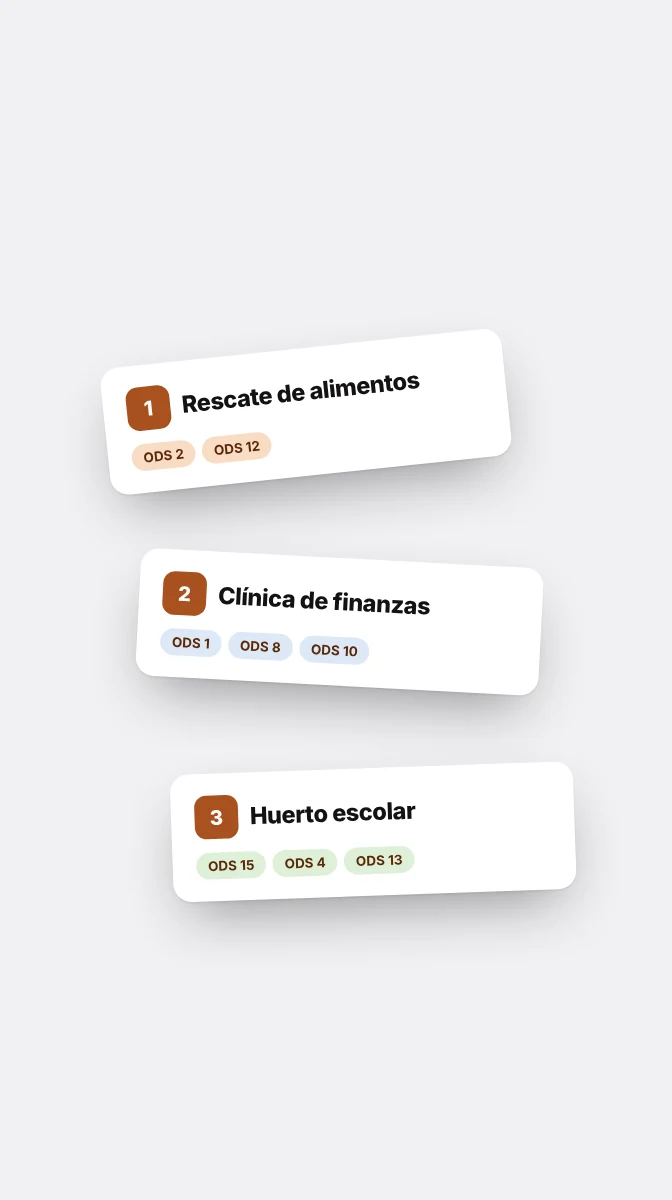
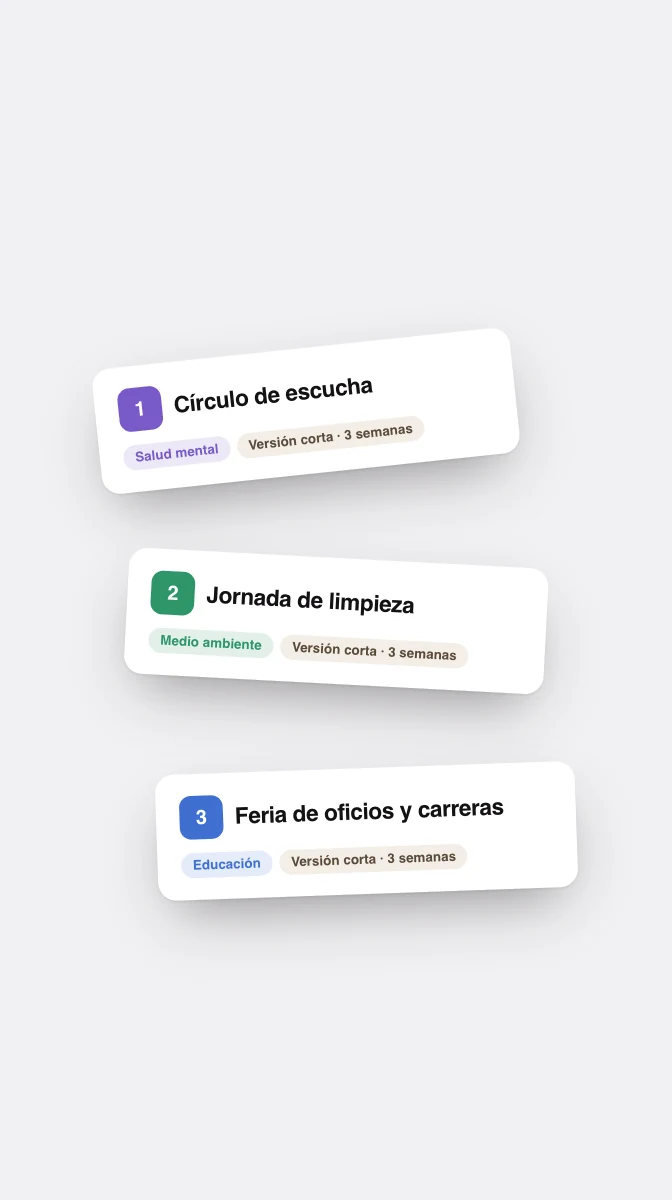
¿Qué proyecto social hago?: portada con ideas variadas
Las tarjetas de la portada pasan de Rescate de alimentos, Clínica de finanzas y Huerto escolar a Círculo de escucha (Salud mental), Jornada de limpieza (Medio ambiente) y Feria de oficios y carreras (Educación), cada una con su versión corta. El apoyo ya no dice «para negocios» y los datos dicen 3 min y versión corta.

diff --git a/_tienda/src/marca-producto.js b/_tienda/src/marca-producto.js
@@ -24,7 +24,7 @@ export const MARCAS = {
   vende: ['#C2256F', 'Vende', 'Clientas, pedidos y cobros, [en orden.]', ['Ganancia **real**', '**WhatsApp** listo', '**Gratis** para empezar']],
   'ruta-de-impacto': ['#4338CA', 'Ruta de Impacto', 'Tu proyecto social, [de la idea a la comunidad.]', ['**6** niveles + final', '**Tutor** con pistas', 'Pago único · **1 año**']],
   'test-vocacional': ['#5B1F7A', 'Test vocacional', 'Descubre [qué carreras van contigo.]', ['**48** preguntas', 'Perfil básico **gratis**', '**20** carreras afines']],
-  'que-proyecto-social': ['#A8501F', '¿Qué proyecto social hago?', 'Tu proyecto social, [a tu medida.]', ['**10** preguntas · 5 min', 'De **5 a 8** proyectos', 'Indicadores y **ODS**']],
+  'que-proyecto-social': ['#A8501F', '¿Qué proyecto social hago?', 'Tu proyecto social, [a tu medida.]', ['**10** preguntas · 3 min', 'De **5 a 8** proyectos', 'Versión **corta**']],
   'evaluacion-liderazgo': ['#5B2A63', 'Evaluación de liderazgo', 'Lo que crees de ti, [contra lo que has hecho.]', ['**80** preguntas · 25 min', '**12** dimensiones', '**2** aplicaciones']],
   portales: ['#0F5A8A', 'Portal', 'Tus propiedades, [en tu propio portal.]', ['Tu **portal** propio', 'Fotos y **ficha** por inmueble', 'Interesados por **WhatsApp**']],
   clara: ['#1F5FD6', 'Clara', 'Tu dinero, claro. Anota todo [en segundos.]', ['**Efectivo**, débito y crédito', '**Sin** conectar tu banco', 'Desde **15** años']],

diff --git a/_tienda/simulador/portadas_v4.py b/_tienda/simulador/portadas_v4.py
@@ -36,7 +36,7 @@ V4 = {
   'idea-en-orden': ('#1F7A44', 'Kit Idea en Orden', 'Ordena tu idea y [planea tus próximos 7 días.]', 'Emprendimiento nivel 1: workbook y herramientas para arrancar.', ['Workbook **PDF** · 32 págs.', '**Word** y Excel', '**6** herramientas']),
   'idea-negocio': ('#5B2A9E', 'Kit Idea → Negocio', 'Valida tu idea con [clientes reales.]', 'Emprendimiento nivel 2: entrevistas, preventa, costos y punto de equilibrio.', ['Workbook **PDF** · 32 págs.', '**2** Excel', 'Incluye **Nivel 1**']),
   'test-vocacional': ('#5B1F7A', 'Test vocacional', 'Descubre [qué carreras van contigo.]', 'Tu perfil de intereses y las carreras afines, explicado claro.', ['**48** preguntas', 'Perfil básico **gratis**', '**20** carreras afines']),
-  'que-proyecto-social': ('#A8501F', '¿Qué proyecto social hago?', 'Tu proyecto social, [a tu medida.]', 'Para negocios, OSC y profesionistas, con indicadores y ODS.', ['**10** preguntas · 5 min', 'De **5 a 8** proyectos', 'Indicadores y **ODS**']),
+  'que-proyecto-social': ('#A8501F', '¿Qué proyecto social hago?', 'Tu proyecto social, [a tu medida.]', 'Para personas, colectivos, escuelas y negocios: ideas variadas que arrancan en semanas.', ['**10** preguntas · 3 min', 'De **5 a 8** proyectos', 'Versión **corta**']),
   'evaluacion-liderazgo': ('#5B2A63', 'Evaluación de liderazgo', 'Lo que crees de ti, [contra lo que has hecho.]', 'Desde 12 años: 12 dimensiones y 3 acciones para 30 días.', ['**80** preguntas · 25 min', '**12** dimensiones', '**2** aplicaciones']),
   'portales': ('#0F5A8A', 'Portal', 'Tus propiedades, [en tu propio portal.]', 'Publica tus inmuebles con fotos y recibe a los interesados por WhatsApp.', ['Tu **portal** propio', 'Fotos y **ficha** por inmueble', 'Interesados por **WhatsApp**']),
   'pagina-web': ('#9A5220', 'Tu página web', 'Tu negocio en internet, [listo y cuidado.]', 'La diseñamos, la publicamos y la mantenemos por ti. Tú pagas $499 al mes y tu dominio.', ['Diseño **sin costo**', 'Hospedaje y **SSL**', '**3** cambios al mes']),
@@ -187,8 +187,9 @@ def obj_vocacional():
     return hoja_papel(60, 180, 540, 840, -3, eti('#5B1F7A', 'Tu resultado') + '<div style="font:850 40px Inter,sans-serif;letter-spacing:-.03em;margin:10px 0 20px">Tu código vocacional</div><div style="display:flex;gap:16px">' + letras + '</div>' + barras + '<div style="margin-top:24px;background:#F6F0FA;border-radius:14px;padding:16px 18px"><b style="font:750 19px Inter,sans-serif">Carreras afines</b><div style="font:500 17px Inter,sans-serif;color:#5F5A63;margin-top:4px">Psicología, Pedagogía, Comunicación…</div></div>')
 
 def obj_proyecto():
-    ideas = [('Rescate de alimentos', [2, 12], '#F9DCC4'), ('Clínica de finanzas', [1, 8, 10], '#DCE8F7'), ('Huerto escolar', [15, 4, 13], '#DDF0D8')]
-    tarj = ''.join(f'<div style="position:absolute;left:{60 + i * 40}px;top:{300 + i * 250}px;width:480px;border-radius:22px;background:#fff;transform:rotate({[-6, 3, -2][i]}deg);{SOMBRA};padding:26px 28px;color:#141114"><div style="display:flex;gap:14px;align-items:center"><span style="width:52px;height:52px;border-radius:14px;background:#A8501F;color:#fff;display:grid;place-items:center;font:800 24px Inter,sans-serif">{i + 1}</span><b style="font:800 28px Inter,sans-serif;letter-spacing:-.02em">{n}</b></div><div style="display:flex;gap:8px;margin-top:16px">' + ''.join(f'<span style="background:{bg};color:#5A2A0C;border-radius:999px;padding:6px 14px;font:750 16px Inter,sans-serif">ODS {o}</span>' for o in ods) + '</div></div>' for i, (n, ods, bg) in enumerate(ideas))
+    # Tres ideas de áreas distintas (como sale el reporte), cada una con su área y su versión corta, en los colores del cuestionario
+    ideas = [('Círculo de escucha', 'Salud mental', '3 semanas', '#7a5ac8'), ('Jornada de limpieza', 'Medio ambiente', '3 semanas', '#2e9468'), ('Feria de oficios y carreras', 'Educación', '3 semanas', '#3f6fd1')]
+    tarj = ''.join(f'<div style="position:absolute;left:{50 + i * 36}px;top:{300 + i * 250}px;width:500px;border-radius:22px;background:#fff;transform:rotate({[-6, 3, -2][i]}deg);{SOMBRA};padding:26px 28px;color:#141114"><div style="display:flex;gap:14px;align-items:center"><span style="flex:none;width:52px;height:52px;border-radius:14px;background:{c};color:#fff;display:grid;place-items:center;font:800 24px Inter,sans-serif">{i + 1}</span><b style="font:800 27px/1.15 Inter,sans-serif;letter-spacing:-.02em">{n}</b></div><div style="display:flex;gap:8px;margin-top:16px"><span style="background:color-mix(in srgb,{c} 14%,#fff);color:{c};border-radius:999px;padding:6px 14px;font:750 16px Inter,sans-serif">{a}</span><span style="background:#F3EEE6;color:#5A4A3A;border-radius:999px;padding:6px 14px;font:750 16px Inter,sans-serif">Versión corta · {sem}</span></div></div>' for i, (n, a, sem, c) in enumerate(ideas))
     return tarj
 
 def obj_liderazgo():
